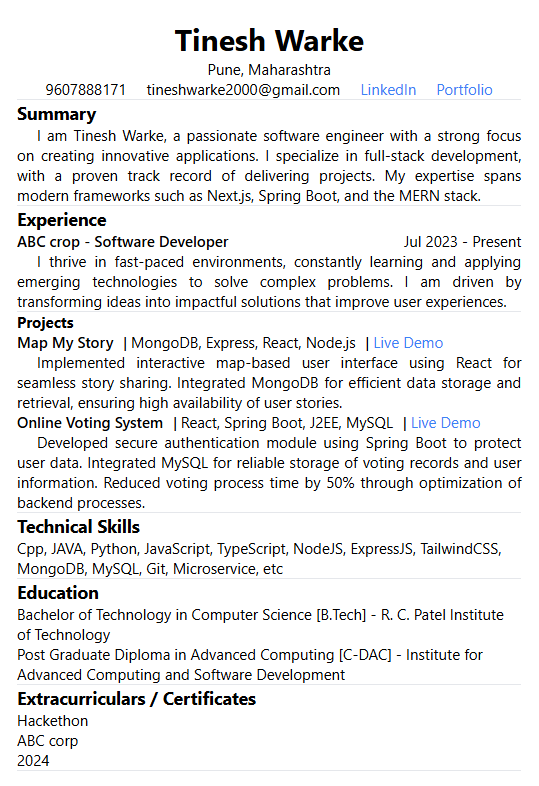
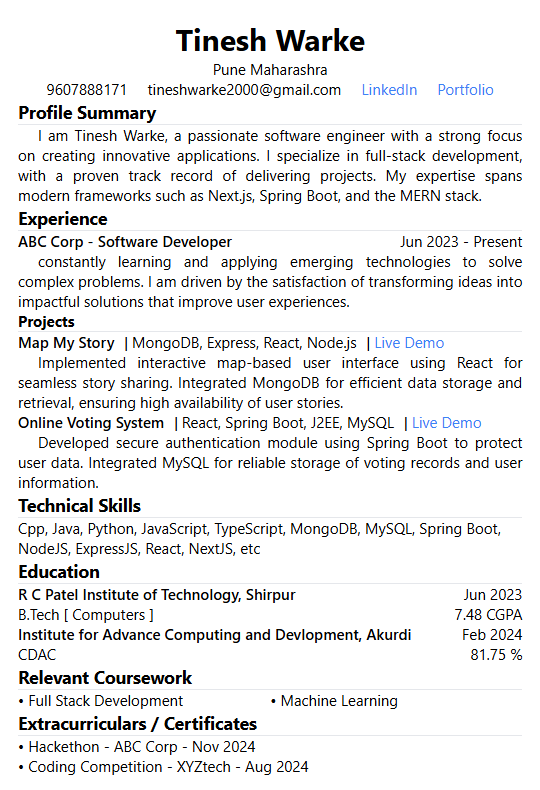
'3rd'

Changed region(s): [[0.0297, 0.0305, 0.9796, 0.9771], [0.8015, 0.0916, 0.9202, 0.1221], [0.6827, 0.0916, 0.7718, 0.1221]]

diff --git a/app/builder/components/ResumePreview.tsx b/app/builder/components/ResumePreview.tsx
@@ -4,6 +4,38 @@ import domToImage from 'dom-to-image';
 import { useState } from 'react';
 import Image from 'next/image';
 
+interface Experience {
+  company: string;
+  jobTitle: string;
+  startDate: string;
+  endDate: string;
+  description: string;
+}
+
+interface Project {
+  title: string;
+  technologies: string;
+  liveDemo: string;
+  description: string;
+}
+
+interface Education {
+  institution: string;
+  degree: string;
+  year: string;
+  score: string;
+}
+
+interface Course {
+  courseName: string;
+}
+
+interface Extracurricular {
+  activity: string;
+  organization: string;
+  year: string;
+}
+
 export const downloadPDF = async () => {
   const element = document.getElementById('resume-preview');
   if (!element) return;
@@ -48,20 +80,20 @@ export default function ResumePreview() {
                 </p>
               }
             </div>
-            <hr />
 
             {data.summary &&
               <div>
-                <h2 className="text-sm font-bold">Summary</h2>
-                <p className='text-xs text-justify indent-4'>{data.summary}</p>
+                <h2 className="text-sm font-bold">Profile Summary</h2>
                 <hr />
+                <p className='text-xs text-justify indent-4'>{data.summary}</p>
               </div>
             }
 
             {data.experience.length !== 0 &&
               <div>
                 <h2 className="text-sm font-bold">Experience</h2>
-                {data.experience?.map((exp: any, index: number) => (
+                <hr />
+                {data.experience?.map((exp: Experience, index: number) => (
                   <div key={index}>
                     <span className='flex gap-8 justify-between'>
                       <p className='text-xs font-semibold'>{exp.company} - {exp.jobTitle}</p>
@@ -73,14 +105,14 @@ export default function ResumePreview() {
                     <p className='text-xs text-justify indent-4'>{exp.description}</p>
                   </div>
                 ))}
-                <hr />
               </div>
             }
 
             {data.projects.length !== 0 &&
               <div>
                 <h2 className="text-xs font-bold">Projects</h2>
-                {data.projects?.map((pro: any, index: number) => (
+                <hr />
+                {data.projects?.map((pro: Project, index: number) => (
                   <div key={index}>
                     <div className='flex items-start gap-2'>
                       <p className='text-xs font-semibold'>{pro.title}</p>
@@ -94,53 +126,59 @@ export default function ResumePreview() {
                     <p className='text-xs text-justify indent-4'>{pro.description}</p>
                   </div>
                 ))}
-                <hr />
               </div>
             }
 
             {data.skills.length !== 0 &&
               <div>
                 <h2 className="text-sm font-bold">Technical Skills</h2>
-                <p className='text-xs'>{data.skills}</p>
                 <hr />
+                <p className='text-xs'>{data.skills}</p>
               </div>
             }
 
             {data.education.length !== 0 &&
               <div>
                 <h2 className="text-sm font-bold">Education</h2>
-                {data.education?.map((edu: any, index: number) => (
+                <hr />
+                {data.education?.map((edu: Education, index: number) => (
                   <div key={index}>
-                    <p className='text-xs'>{edu.degree} - {edu.institution}</p>
+                    <div className='flex justify-between'>
+                      <p className='text-xs font-semibold'>{edu.institution} </p>
+                      <p className='text-xs'>{formatDate(edu.year)}</p>
+                    </div>
+                    <div className='flex justify-between'>
+                      <p className='text-xs'>{edu.degree} </p>
+                      <p className='text-xs'>{edu.score} </p>
+                    </div>
                   </div>
                 ))}
-                <hr />
               </div>
             }
 
             {data.coursework.length !== 0 &&
               <div>
                 <h2 className="text-sm font-bold">Relevant Coursework</h2>
-                {data.coursework?.map((course: any, index: number) => (
-                  <div key={index}>
-                    <p className='text-xs'>{course.courseName}</p>
-                  </div>
-                ))}
                 <hr />
+                <div className='grid grid-cols-2'>
+                  {data.coursework?.map((course: Course, index: number) => (
+                    <div key={index}>
+                      <p className='text-xs'>• {course.courseName}</p>
+                    </div>
+                  ))}
+                </div>
               </div>
             }
 
             {data.extracurriculars.length !== 0 &&
               <div>
                 <h2 className="text-sm font-bold">Extracurriculars / Certificates</h2>
-                {data.extracurriculars?.map((other: any, index: number) => (
-                  <div key={index}>
-                    <p className='text-xs'>{other.activity}</p>
-                    <p className='text-xs'>{other.organization}</p>
-                    <p className='text-xs'>{other.year}</p>
-                  </div>
-                ))}
                 <hr />
+                {data.extracurriculars?.map((other: Extracurricular, index: number) => (
+                  <li className="text-xs flex justify-between items-center space-x-1" key={index}>
+                    <p>• {other.activity} - {other.organization} - {formatDate(other.year)}</p>
+                  </li>
+                ))}
               </div>
             }
           </div>
@@ -158,8 +196,8 @@ export default function ResumePreview() {
       <div className='p-8 mr-8 h-[90vh]'>
         <div onClick={() => setTemplate(1)}
           className={`h-[25vh] w-[calc(25vh/1.414)] mx-auto cursor-pointer bg-white m-5 rounded-md border-accent ${template === 1 ? 'border-4' : ''}`}>
-            <Image src={'/template1.png'} alt='' width={130} height={130} className='rounded-md'/>
-          </div>
+          <Image src={'/template1.png'} alt='' width={130} height={130} className='rounded-md' />
+        </div>
         <div onClick={() => setTemplate(2)}
           className={`h-[25vh] w-[calc(25vh/1.414)] mx-auto cursor-pointer bg-white m-5 rounded-md border-accent ${template === 2 ? 'border-4' : ''}`}></div>
         <div onClick={() => setTemplate(3)}

diff --git a/app/page.tsx b/app/page.tsx
@@ -1,15 +1,87 @@
+'use client'
+import { motion } from "framer-motion";
 import Link from "next/link";
 
 export default function Home() {
   return (
-    <div className="text-center">
-      <h1 className="text-4xl font-bold mb-4">Welcome to Resume Builder</h1>
-      <p className="text-lg mb-6">Create your professional resume in minutes.</p>
-      <Link href="/builder">
-        <button className="bg-blue-500 text-white px-6 py-2 rounded-md hover:bg-blue-600">
-          Start Building
-        </button>
-      </Link>
-    </div>
+    <motion.div
+      initial={{ opacity: 0 }}
+      animate={{ opacity: 1 }}
+      transition={{ duration: 1 }}
+      className="min-h-screen flex flex-col bg-base-300 text-neutral-content"
+    >
+      {/* Header Section */}
+      <motion.header
+        initial={{ y: -50, opacity: 0 }}
+        animate={{ y: 0, opacity: 1 }}
+        transition={{ duration: 0.8 }}
+        className="glass text-white py-4 shadow-lg"
+      >
+        <h1 className="text-5xl font-extrabold text-center tracking-wide">
+          Resume Builder
+        </h1>
+      </motion.header>
+
+      {/* Main Content */}
+      <motion.main
+        initial={{ scale: 0.9, opacity: 0 }}
+        animate={{ scale: 1, opacity: 1 }}
+        transition={{ duration: 1, ease: "easeOut" }}
+        className="flex flex-1 flex-col items-center justify-center text-center px-6"
+      >
+        <motion.h2
+          initial={{ x: -100, opacity: 0 }}
+          animate={{ x: 0, opacity: 1 }}
+          transition={{ duration: 1, delay: 0.2 }}
+          className="text-4xl font-bold mb-6"
+        >
+          Welcome to <span className="text-primary-focus">Resume Builder</span>
+        </motion.h2>
+        <motion.p
+          initial={{ x: 100, opacity: 0 }}
+          animate={{ x: 0, opacity: 1 }}
+          transition={{ duration: 1, delay: 0.4 }}
+          className="text-lg mb-8 max-w-xl"
+        >
+          Craft your professional resume effortlessly. Powered by{" "}
+          <span className="font-semibold text-primary-focus">Tinesh Warke</span>,
+          this tool ensures you stand out in your career journey.
+        </motion.p>
+        <Link href="/builder">
+          <motion.button
+            whileHover={{ scale: 1.1 }}
+            whileTap={{ scale: 0.95 }}
+            className="btn btn-primary btn-lg shadow-xl"
+          >
+            Start Building
+          </motion.button>
+        </Link>
+      </motion.main>
+
+      {/* Decorative Animation */}
+      <motion.div
+        className="absolute top-10 left-10 w-20 h-20 bg-primary opacity-40 rounded-full filter blur-3xl"
+        animate={{ scale: [1, 1.5, 1] }}
+        transition={{ repeat: Infinity, duration: 3 }}
+      />
+      <motion.div
+        className="absolute bottom-10 right-10 w-32 h-32 bg-secondary opacity-30 rounded-full filter blur-3xl"
+        animate={{ scale: [1, 1.3, 1] }}
+        transition={{ repeat: Infinity, duration: 3, delay: 1 }}
+      />
+
+      {/* Footer Section */}
+      <motion.footer
+        initial={{ y: 50, opacity: 0 }}
+        animate={{ y: 0, opacity: 1 }}
+        transition={{ duration: 0.8, delay: 0.6 }}
+        className="bg-neutral text-neutral-content py-4 shadow-md"
+      >
+        <p className="text-center text-sm">
+          Designed with ❤ by Tinesh Warke | © {new Date().getFullYear()} Resume
+          Builder. All rights reserved.
+        </p>
+      </motion.footer>
+    </motion.div>
   );
 }

diff --git a/app/builder/components/EducationDetails.tsx b/app/builder/components/EducationDetails.tsx
@@ -41,13 +41,24 @@ export default function EducationDetails() {
       {fields.map((field, index) => (
         <motion.div key={field.id} className="mb-4" variants={itemVariants}>
           <input
+            {...register(`education.${index}.institution`)}
+            placeholder="Institution"
+            className="input focus:border-amber-800 w-full mb-2 shadow-lg bg-transparent border-2 border-amber-500 font-semibold text-amber-900"
+          />
+          <input
             {...register(`education.${index}.degree`)}
             placeholder="Degree"
             className="input focus:border-amber-800 w-full mb-2 shadow-lg bg-transparent border-2 border-amber-500 font-semibold text-amber-900"
           />
           <input
-            {...register(`education.${index}.institution`)}
-            placeholder="Institution"
+            {...register(`education.${index}.score`)}
+            placeholder="Score"
+            className="input focus:border-amber-800 w-full mb-2 shadow-lg bg-transparent border-2 border-amber-500 font-semibold text-amber-900"
+          />
+          <input
+            {...register(`education.${index}.year`)}
+            placeholder="Year"
+            type='date'
             className="input focus:border-amber-800 w-full mb-2 shadow-lg bg-transparent border-2 border-amber-500 font-semibold text-amber-900"
           />
           <button

diff --git a/app/builder/components/ExtracurricularCertificates.tsx b/app/builder/components/ExtracurricularCertificates.tsx
@@ -53,6 +53,7 @@ export default function ExtracurricularCertificates() {
           <input
             {...register(`extracurriculars.${index}.year`)}
             placeholder="Year"
+            type='date'
             className="input focus:border-sky-800 w-full mb-2 shadow-lg bg-transparent border-2 border-sky-500 font-semibold text-sky-900"
           />
           <button
